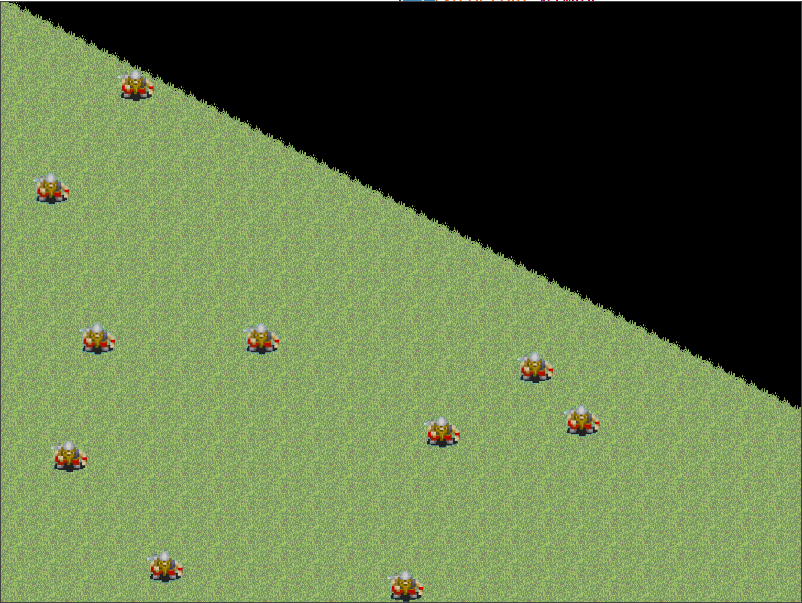
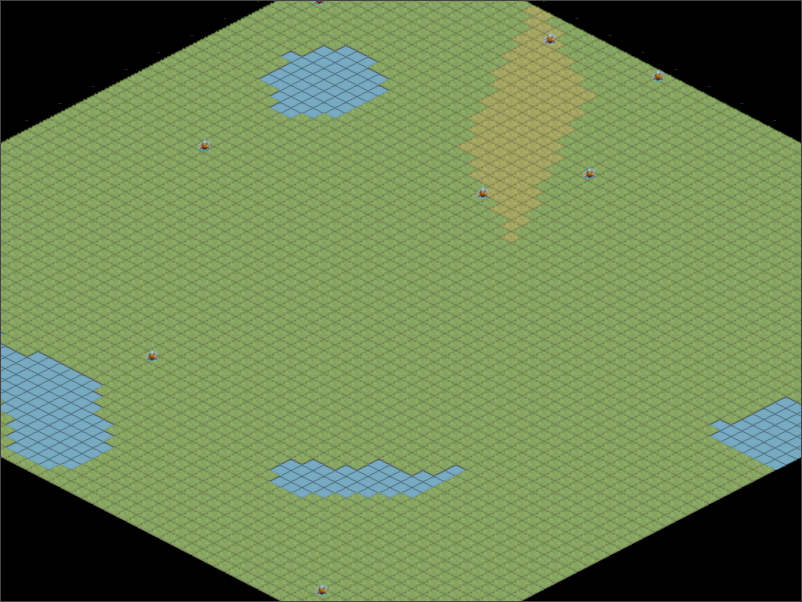
store indices of walkable tiles; spawn dvars on walkable tiles only; change glortho to centered; zoom in/out

diff --git a/src/dvarcraft.rs b/src/dvarcraft.rs
@@ -33,6 +33,7 @@ implement_vertex!(SpriteVertex, i_position, i_tex_id, is_selected);
 
 fn generate_vertices(display: &glium_sdl2::SDL2Facade, tiles: &Vec<&tiles::Tile>) -> (glium::VertexBuffer<SpriteVertex>, glium::index::IndexBuffer<u16>) {
     let sprites_count = tiles.len();
+    let sprite_width = 32.0;
     let mut vb: glium::VertexBuffer<SpriteVertex> = glium::VertexBuffer::empty_dynamic(
         display, sprites_count * 4).unwrap();
     let mut ib_data = Vec::with_capacity(sprites_count * 6);
@@ -46,33 +47,33 @@ fn generate_vertices(display: &glium_sdl2::SDL2Facade, tiles: &Vec<&tiles::Tile>
             true => 0.5, false => 0.0
         };
 
-        sprite[0].i_position[0] = position.x - 32.0;
-        sprite[0].i_position[1] = position.y + 32.0;
+        sprite[0].i_position[0] = position.x - sprite_width;
+        sprite[0].i_position[1] = position.y + sprite_width;
         sprite[0].i_tex_id = tex_id;
         sprite[0].is_selected = is_selected;
 
-        sprite[1].i_position[0] = position.x + 32.0;
-        sprite[1].i_position[1] = position.y + 32.0;
+        sprite[1].i_position[0] = position.x + sprite_width;
+        sprite[1].i_position[1] = position.y + sprite_width;
         sprite[1].i_tex_id = tex_id;
         sprite[1].is_selected = is_selected;
 
-        sprite[2].i_position[0] = position.x - 32.0;
-        sprite[2].i_position[1] = position.y - 32.0;
+        sprite[2].i_position[0] = position.x - sprite_width;
+        sprite[2].i_position[1] = position.y - sprite_width;
         sprite[2].i_tex_id = tex_id;
         sprite[2].is_selected = is_selected;
 
-        sprite[3].i_position[0] = position.x + 32.0;
-        sprite[3].i_position[1] = position.y - 32.0;
+        sprite[3].i_position[0] = position.x + sprite_width;
+        sprite[3].i_position[1] = position.y - sprite_width;
         sprite[3].i_tex_id = tex_id;
         sprite[3].is_selected = is_selected;
 
-        let num = num as u16;
-        ib_data.push(num * 4);
-        ib_data.push(num * 4 + 1);
-        ib_data.push(num * 4 + 2);
-        ib_data.push(num * 4 + 1);
-        ib_data.push(num * 4 + 3);
-        ib_data.push(num * 4 + 2);
+        let num = (num * 4) as u16;
+        ib_data.push(num);
+        ib_data.push(num + 1);
+        ib_data.push(num + 2);
+        ib_data.push(num + 1);
+        ib_data.push(num + 3);
+        ib_data.push(num + 2);
     }
 
     (vb, glium::index::IndexBuffer::new(display, PrimitiveType::TrianglesList, &ib_data).unwrap())
@@ -80,7 +81,7 @@ fn generate_vertices(display: &glium_sdl2::SDL2Facade, tiles: &Vec<&tiles::Tile>
 
 fn main() {
     let (w, h) = (800, 600);
-    let mut tiles = tiles::Tiles::new_layer_from_heightmap("heightmap_64.png", 1);
+    let mut tiles = tiles::Tiles::new_layer_from_heightmap("heightmap_64.png", 2);
     let mut miners = miners::Miners::new(10, &tiles);
     let miners_count: usize = miners.miners.len();
     let sprites_count: usize = tiles.tiles.len();
@@ -108,12 +109,8 @@ fn main() {
         blend: glium::Blend::alpha_blending(),
         .. Default::default()
     };
-    let ortho_matrix: cgmath::Matrix4<f32> = cgmath::ortho(
-        0.0, w as f32, h as f32, 0.0, 0.0, 1.0);
-    let uniforms = uniform! {
-        tex: &texture,
-        matrix: Into::<[[f32; 4]; 4]>::into(ortho_matrix)
-    };
+    let mut zoom = 1.0;
+    let (viewport_w, viewport_h) = (w as f32, h as f32);
     let mut start_ns = clock_ticks::precise_time_ns();
     let mut prev_ns = start_ns;
     let mut frames = 0;
@@ -144,6 +141,17 @@ fn main() {
             tiles.update_selected(&selection);
         }
 
+        // construct uniforms, take current zoom into account
+        // left, right, bottom, top, near, far
+        //glOrtho( -width/2*zoom, width/2*zoom, -height/2*zoom, height/2*zoom, -1, 1 );
+        let ortho_matrix: cgmath::Matrix4<f32> = cgmath::ortho(
+            - viewport_w / 2.0 * zoom, viewport_w / 2.0 * zoom,
+            - viewport_h / 2.0 * zoom, viewport_h / 2.0 * zoom,
+            -1.0, 1.0);
+        let uniforms = uniform! {
+            tex: &texture,
+            matrix: Into::<[[f32; 4]; 4]>::into(ortho_matrix)
+        };
         // building the vertex buffer and index buffers that will be filled with the data of
         // the sprites
         let (vertex_buffer, index_buffer) = generate_vertices(&display, &tiles.get_tiles());
@@ -166,6 +174,12 @@ fn main() {
                     Event::Quit { .. } => {
                         running = false;
                     },
+                Event::KeyDown { keycode: Some(Keycode::Equals), .. } => {
+                    zoom -= 0.5;
+                },
+                Event::KeyDown { keycode: Some(Keycode::Minus), .. } => {
+                    zoom += 0.5;
+                },
                 _ => ()
             }
         }

diff --git a/src/tiles.rs b/src/tiles.rs
@@ -30,6 +30,7 @@ impl Tile {
 
 pub struct Tiles {
     pub tiles: Vec<Tile>,
+    pub walkable: Vec<usize>,
     pub width: usize,
     pub height: usize,
 }
@@ -55,27 +56,33 @@ impl Tiles {
         println!("Map: {:?}", heightmap.dimensions());
 
         let mut tiles = Vec::new();
+        let mut walkable = Vec::new();
         let (step_x, step_y) = (33.0, 17.0);
-        let (x_start, y_start) = (0.0, 0.0);
-        let scale = 1.0;
+        let (x_start, y_start) = (0.0, step_y * size_y as f32);
         for x in 0..size_x {
             for y in 0..size_y {
                 let pixel = heightmap.get_pixel(x,  y).to_rgb().data;
-                let mut tex_id = 0;
+                let mut tex_id = 0; // grass
                 if pixel[0] < (layer_idx * layer_step) {
-                    tex_id = 1;
+                    tex_id = 1; // water
                 }
 
                 tiles.push(
                     Tile::new(Vector2::new(
-                        x_start - scale * (step_x * x as f32) + scale * (step_x * y as f32),
-                        y_start + scale * (step_y * x as f32) + scale * (step_y * y as f32),
+                        x_start - step_x * x as f32 + step_x * y as f32,
+                        y_start - step_y * x as f32 - step_y * y as f32,
                     ), tex_id)
                 );
+
+                if tex_id == 0 {
+                    // store walkable index
+                    walkable.push(tiles.len());
+                }
             }
         }
         Tiles {
             tiles: tiles,
+            walkable: walkable,
             width: size_x as usize,
             height: size_y as usize,
         }
@@ -95,11 +102,12 @@ impl Tiles {
         idx
     }
 
-    pub fn get_random(&self, count: u8) -> Vec<&Tile>{
+    pub fn get_random_walkable(&self, count: u8) -> Vec<&Tile>{
         let mut rng = rand::thread_rng();
         (0..count).map(
-            |_| rng.choose(&self.tiles).unwrap()
-        ).collect::<Vec<_>>()
+            |_| rng.choose(&self.walkable).unwrap()
+        )
+        .map(|&i| &self.tiles[i]).collect::<Vec<_>>()
     }
 
     pub fn get_closest_random(&self, pos: Vector2<f32>) -> Option<&Tile> {

diff --git a/src/miners.rs b/src/miners.rs
@@ -44,7 +44,7 @@ impl Miner {
 impl Miners {
     pub fn new(count: u8, tiles: &tiles::Tiles) -> Miners {
         let mut miners = Vec::new();
-        for tile in tiles.get_random(count) {
+        for tile in tiles.get_random_walkable(count) {
             miners.push(Miner::new(tile.position, 2));
         }
         Miners {
